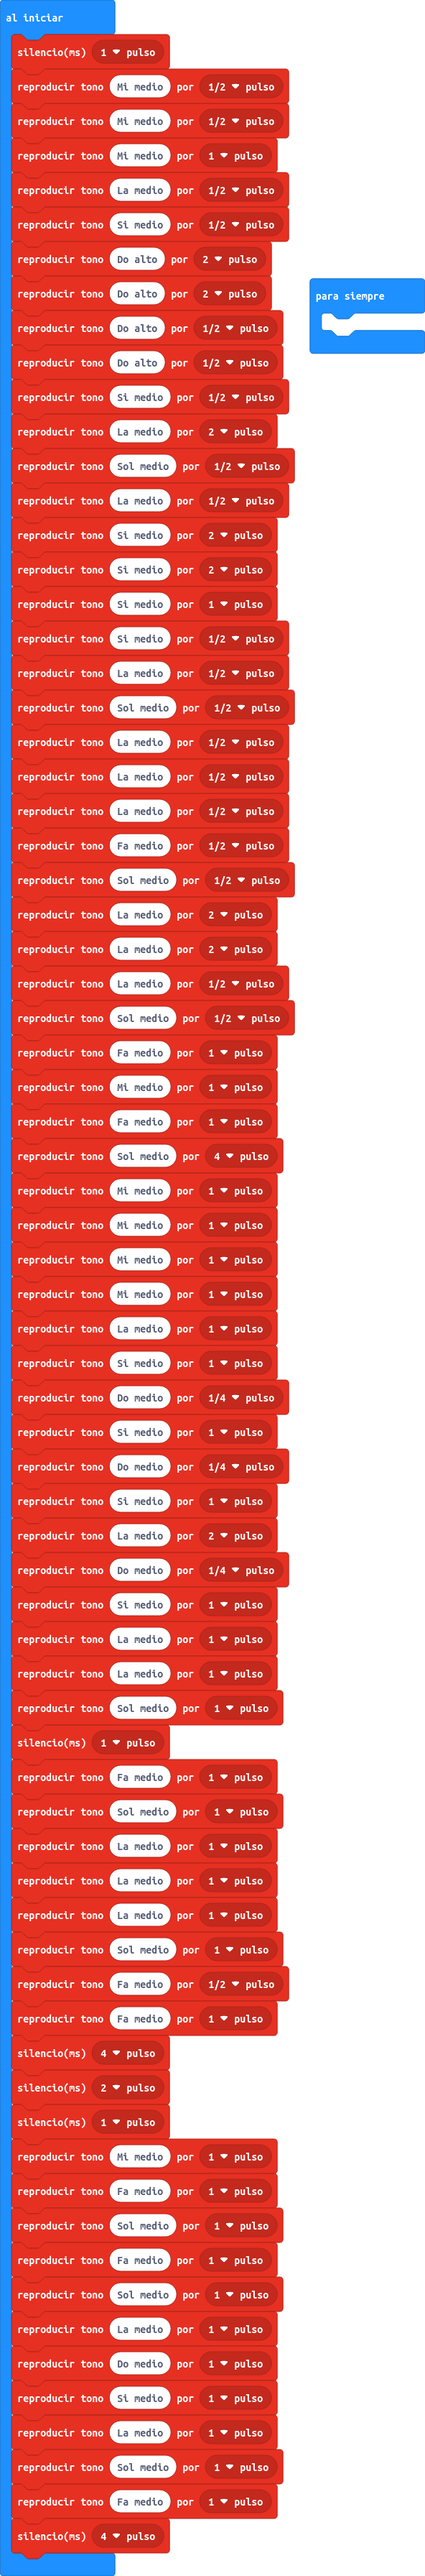
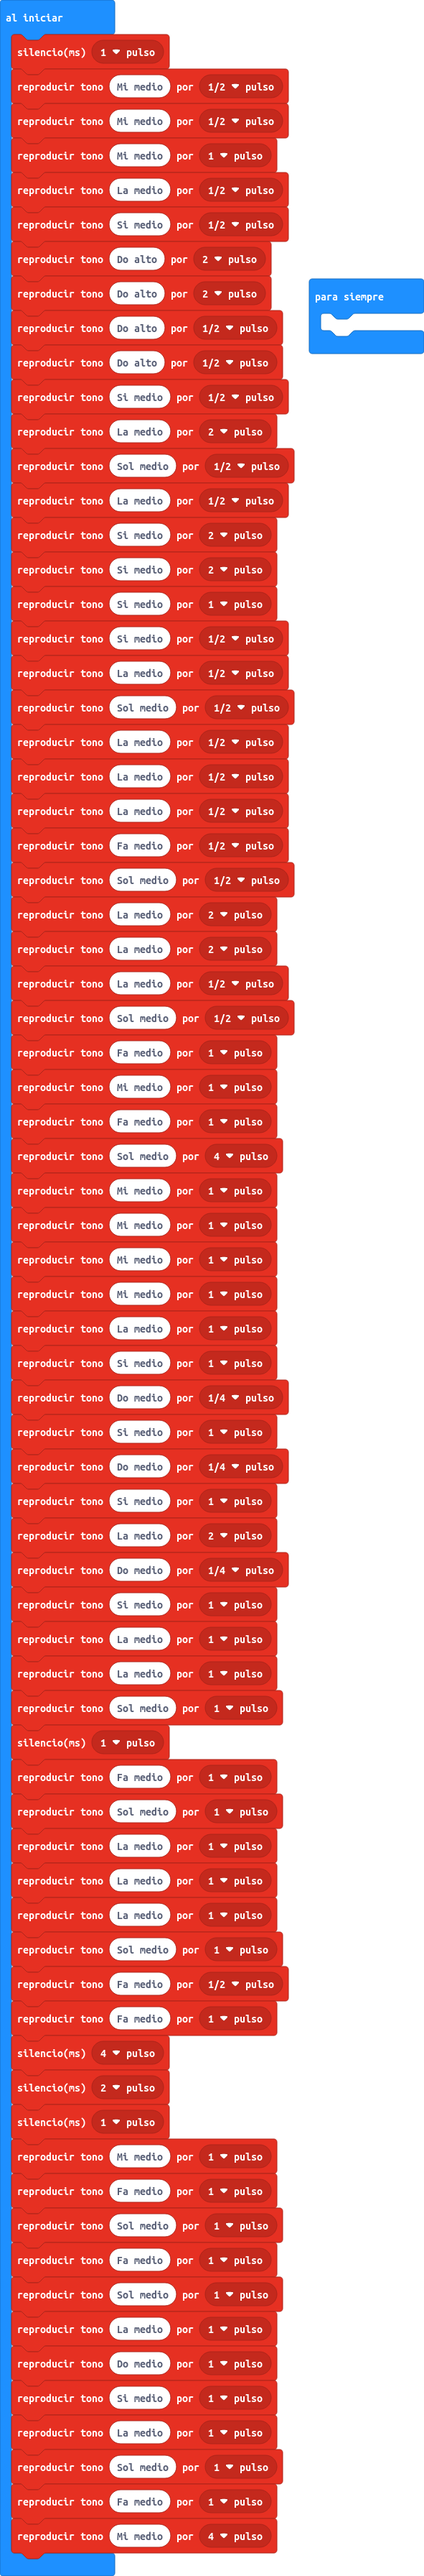
Actualizar main.blocks, main.ts

diff --git a/main.ts b/main.ts
@@ -70,7 +70,7 @@ music.playTone(494, music.beat(BeatFraction.Whole))
 music.playTone(440, music.beat(BeatFraction.Whole))
 music.playTone(392, music.beat(BeatFraction.Whole))
 music.playTone(349, music.beat(BeatFraction.Whole))
-music.rest(music.beat(BeatFraction.Breve))
+music.playTone(330, music.beat(BeatFraction.Breve))
 basic.forever(function () {
 	
 })
